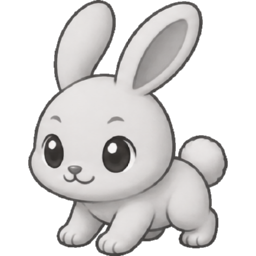
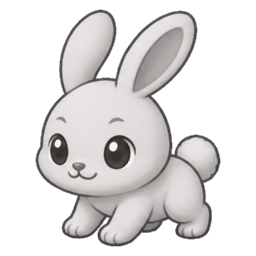
Add painted tier-3/4 monster art; pad monster sprites
- SpriteCook pack: harimau, buaya, hantu, golem, naga, raksasa
- All monster sprites re-cut with a 4% transparent margin so wide forms no longer
  show a faint square in silhouette mode

diff --git a/apps/game/art/PROVENANCE.md b/apps/game/art/PROVENANCE.md
@@ -46,3 +46,5 @@ Prompt grid dekorasi Lv 1 (ringkas): Lampu Jalan (tiang kayu gelap dengan lenter
 Prompt grid monster tingkat 1 (ringkas, 16:9 → 2K, 14 kredit): enam makhluk chibi — kucing, anjing, landak, kelinci, tupai memegang biji ek, katak — dalam grid 3×2, tampak 3/4 menghadap kiri bawah, **tubuh abu-abu nyaris putih tanpa warna** agar diwarnai game sesuai elemen; mata gelap, garis tepi abu gelap; desain orisinal. Pendar dibuang (alpha < 160), dipangkas, diletakkan rata bawah di persegi 256 px → `art/monsters/<wujud>.png`. Game mewarnai dengan warna unsur pertama elemen (`monsterArt.ts → paintedMonster`).
 
 Prompt grid monster tingkat 2 (ringkas, 1:1, 8 kredit): serigala muda, babi hutan gempal bertaring kecil, ular melingkar berkepala besar, kera memegang batu untuk dilempar, kura-kura bertempurung kubah, dan elang muda bersayap terbentang (tingkat 3, mengisi sel ke-6); gaya, tampak, dan tubuh abu netral sama dengan grid tingkat 1; desain orisinal. Diproses sama seperti tingkat 1.
+
+Prompt grid monster tingkat 3–4 (ringkas, 1:1, 8 kredit): harimau bergaris abu lebih gelap, buaya bergigi lebar berpunggung zirah, hantu melayang berekor asap, golem dari bongkah batu, naga muda bersayap kecil menyemburkan napas, raksasa ramah berkepalan besar bertanduk kecil; tetap chibi tetapi lebih gagah; tubuh abu netral seperti grid sebelumnya; desain orisinal. Semua sprite monster diberi margin transparan 4 % agar tidak menyentuh tepi persegi (tepi yang menyentuh membuat kotak samar pada siluet).
